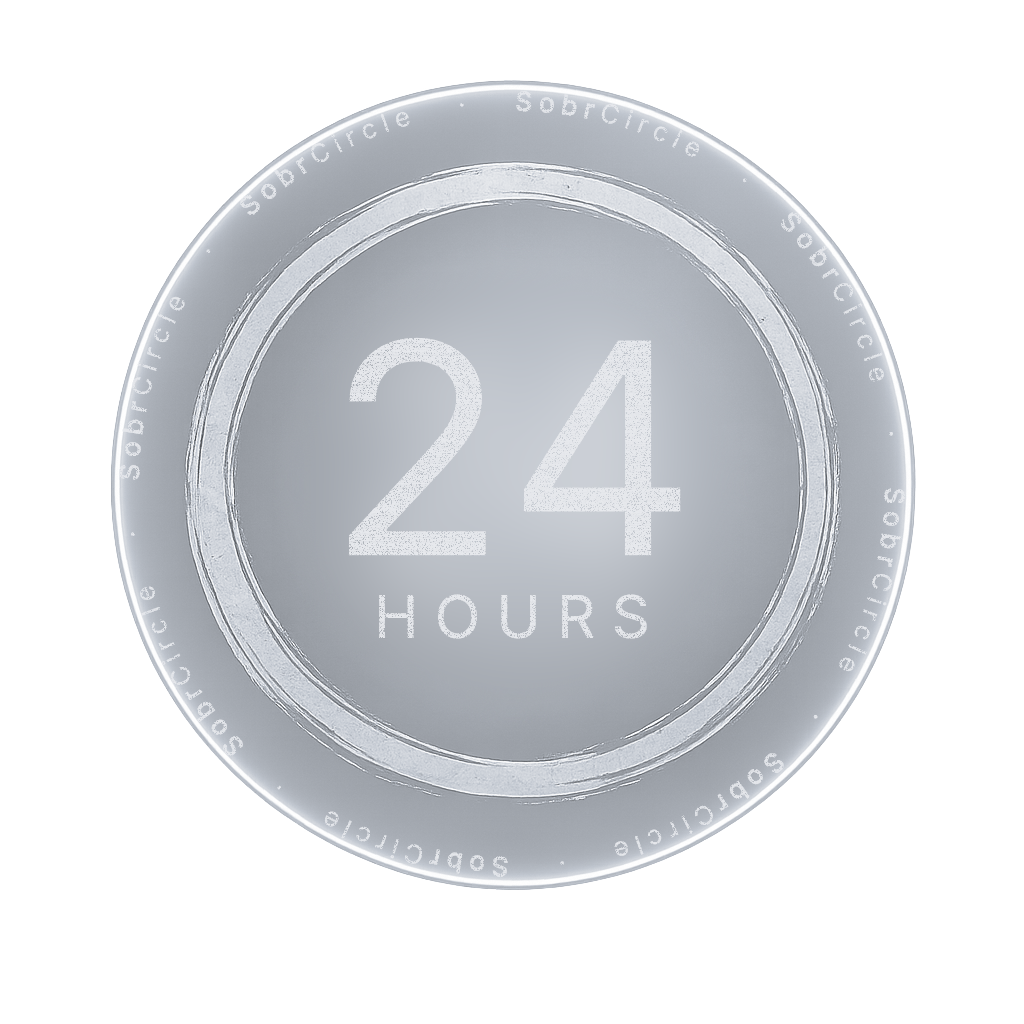
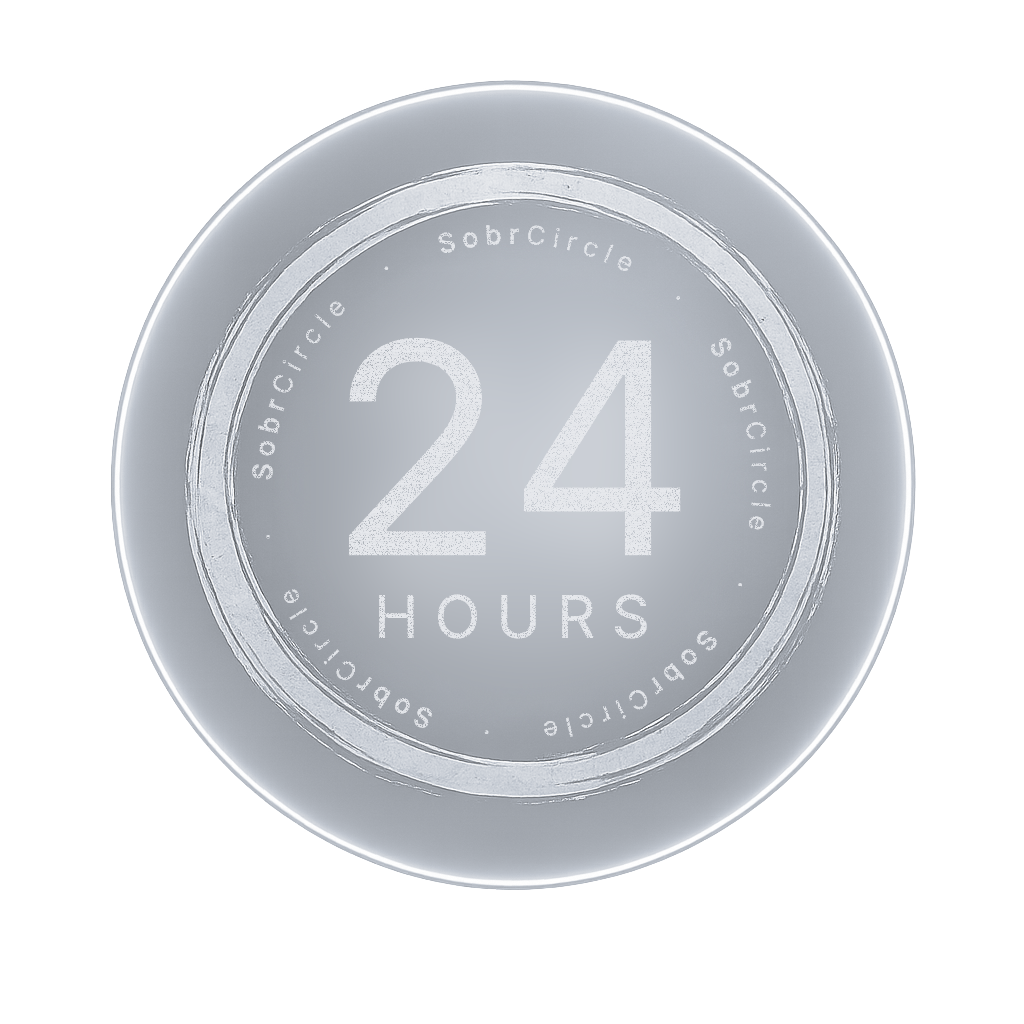
Pull SobrCircle text way in, to the chrome ring's inner edge
Drops radius from 383 to 250 — the text now sits just inside the
chrome ring's inner edge, in the gap between the inner disc and the
brushwork. Fewer repeats (5) since the smaller circumference fits less
of the bigger 26px text.

https://claude.ai/code/session_01TqmVcPLJNZuf7Q6XCPWgNk

diff --git a/scripts/generate-badges.ts b/scripts/generate-badges.ts
@@ -270,13 +270,13 @@ function drawMicroTypography(ctx: SKRSContext2D, hex: string) {
   const lb = Math.round(b + (255 - b) * k)
   const fill = `rgba(${lr}, ${lg}, ${lb}, 0.95)`
 
-  // Dead center of the gap between the brushstroke's outer edge (~r=378)
-  // and the bright white halo line (~r=390). Text rides at r=383.
-  const radius = 383
+  // Inside the chrome ring's inner edge (~r=265), in the gap between
+  // the inner disc and the brushed ring.
+  const radius = 250
   const fontSize = 26
 
   const segments: { text: string; weight: number }[] = []
-  const repeats = 8
+  const repeats = 5
   for (let i = 0; i < repeats; i++) {
     segments.push({ text: 'Sobr',   weight: 700 })
     segments.push({ text: 'Circle', weight: 400 })
